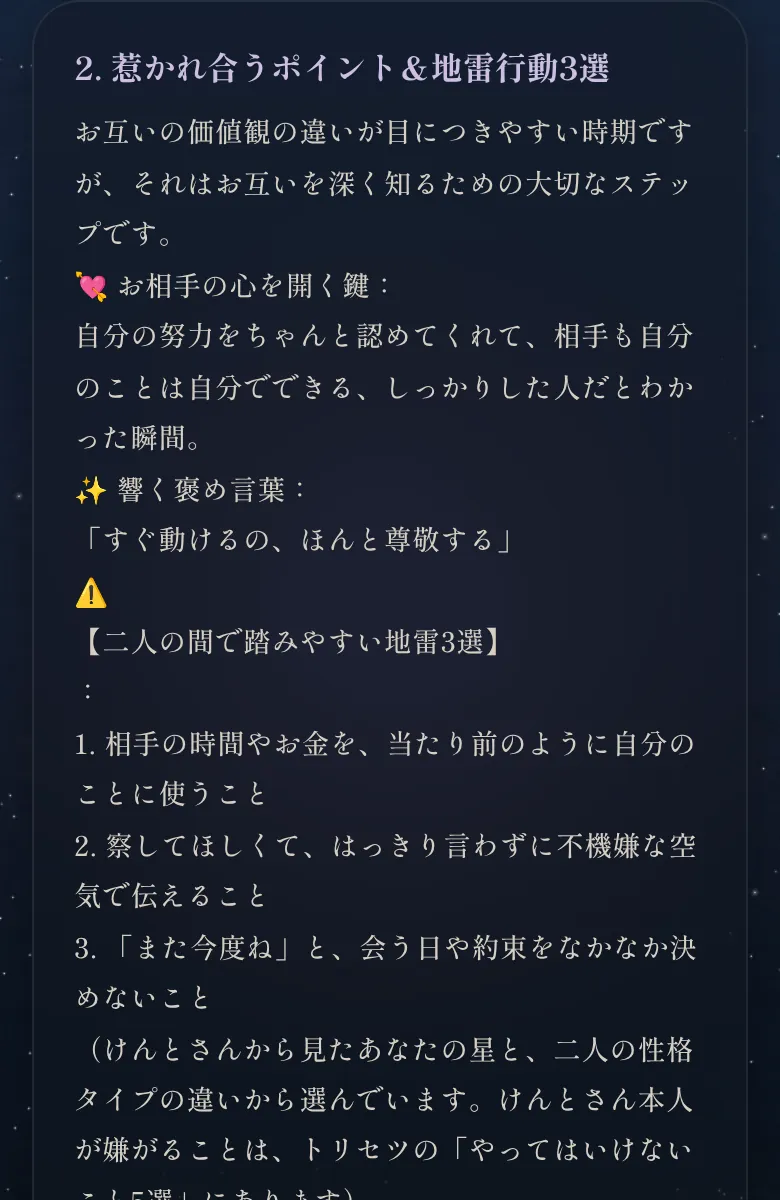
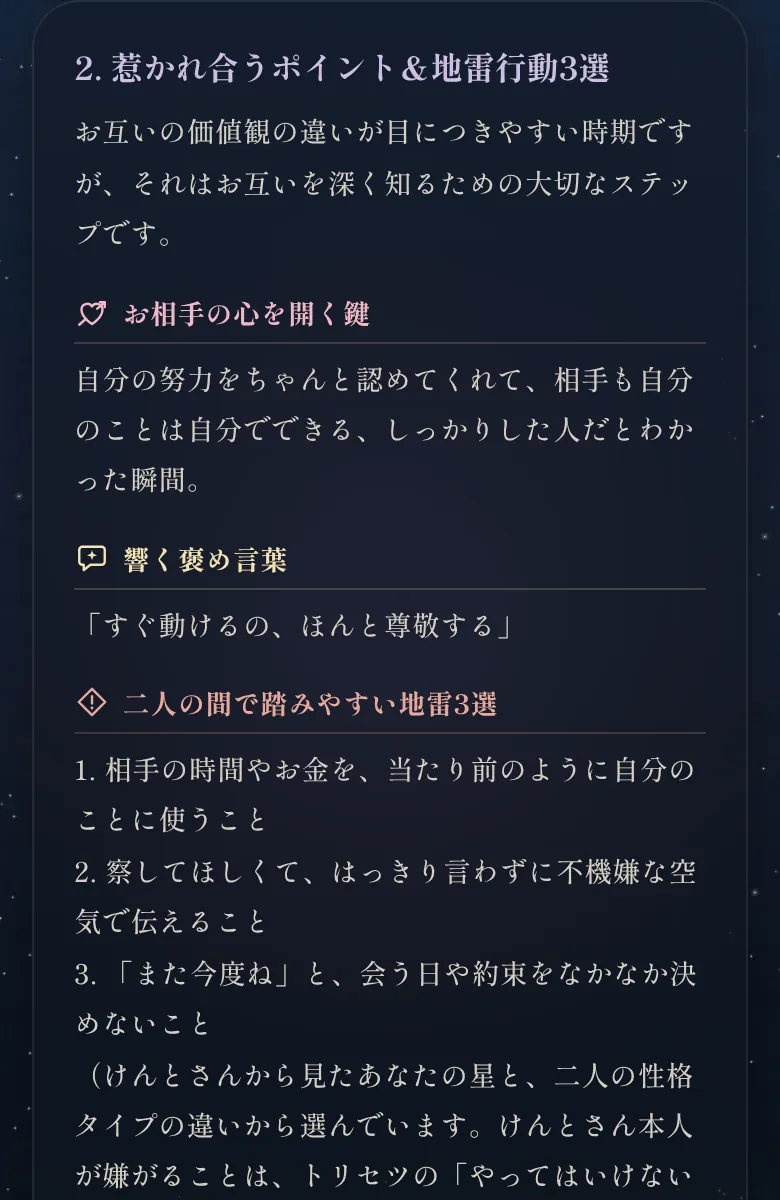
feat: LPの紹介に「7日間の波から、10年先の二人の未来まで」を追加・惹かれ合うポイントの画像を最新化
Claude-Session: https://claude.ai/code/session_019582yCM5q7U2PSxyTAcm8e

diff --git a/src/components/PremiumLPModal.tsx b/src/components/PremiumLPModal.tsx
@@ -400,7 +400,8 @@ export const PremiumLPModal: React.FC<PremiumLPModalProps> = ({
                   { who: 'tsuki', t: '返信が遅いときの心理 ＆ 脈ありサイン 3段階', shot: '/assets/premium/edu-reply.webp', d: '既読のまま止まったとき、あの人が何を考えているのか。今どの段階にいるのか、少し離れかけたときの戻し方まで、一緒に見ていきましょうね。' },
                   { who: 'ren', t: '惹かれ合うポイント ＆ 地雷行動 3選', shot: '/assets/premium/edu-hikare.webp', d: '二人の組み合わせだからこそ起きやすい、すれ違いのパターンがあります。先に知っておけば、避けられますよ。' },
                   { who: 'tsuki', t: '6つの相性グラフ ＆ 二人のこれから', shot: '/assets/premium/edu-radar.webp', d: '恋愛・会話・結婚・信頼などの相性と、関係が進みやすい時期。動くタイミングを、一緒に読んでいきましょうね。' },
-                  { who: 'ren', t: 'そのまま送れるLINEキラーテンプレート', shot: '/assets/premium/edu-template.webp', d: `${pair.name}の性格に合わせた文例を用意しました。言葉に迷う夜は、そのまま使ってください。` }
+                  { who: 'ren', t: 'そのまま送れるLINEキラーテンプレート', shot: '/assets/premium/edu-template.webp', d: `${pair.name}の性格に合わせた文例を用意しました。言葉に迷う夜は、そのまま使ってください。` },
+                  { who: 'tsuki', t: '7日間の波から、10年先の二人の未来まで', shot: '/assets/premium/edu-future.webp', d: '明日からの7日間・月ごとの相性の波と、この先10年の年ごとの流れ。「大開運の年」や、結婚・同棲のような大きな決断に向いた時期も見えるので、先を見すえて動けますよ。（プレミアムプランで読めます）' }
                 ] as const).map((it) => (
                   <CharBubble key={it.t} who={it.who} small>
                     <span style={{ display: 'block', fontWeight: 'bold', color: '#f2e2b3', marginBottom: '0.2rem' }}>
